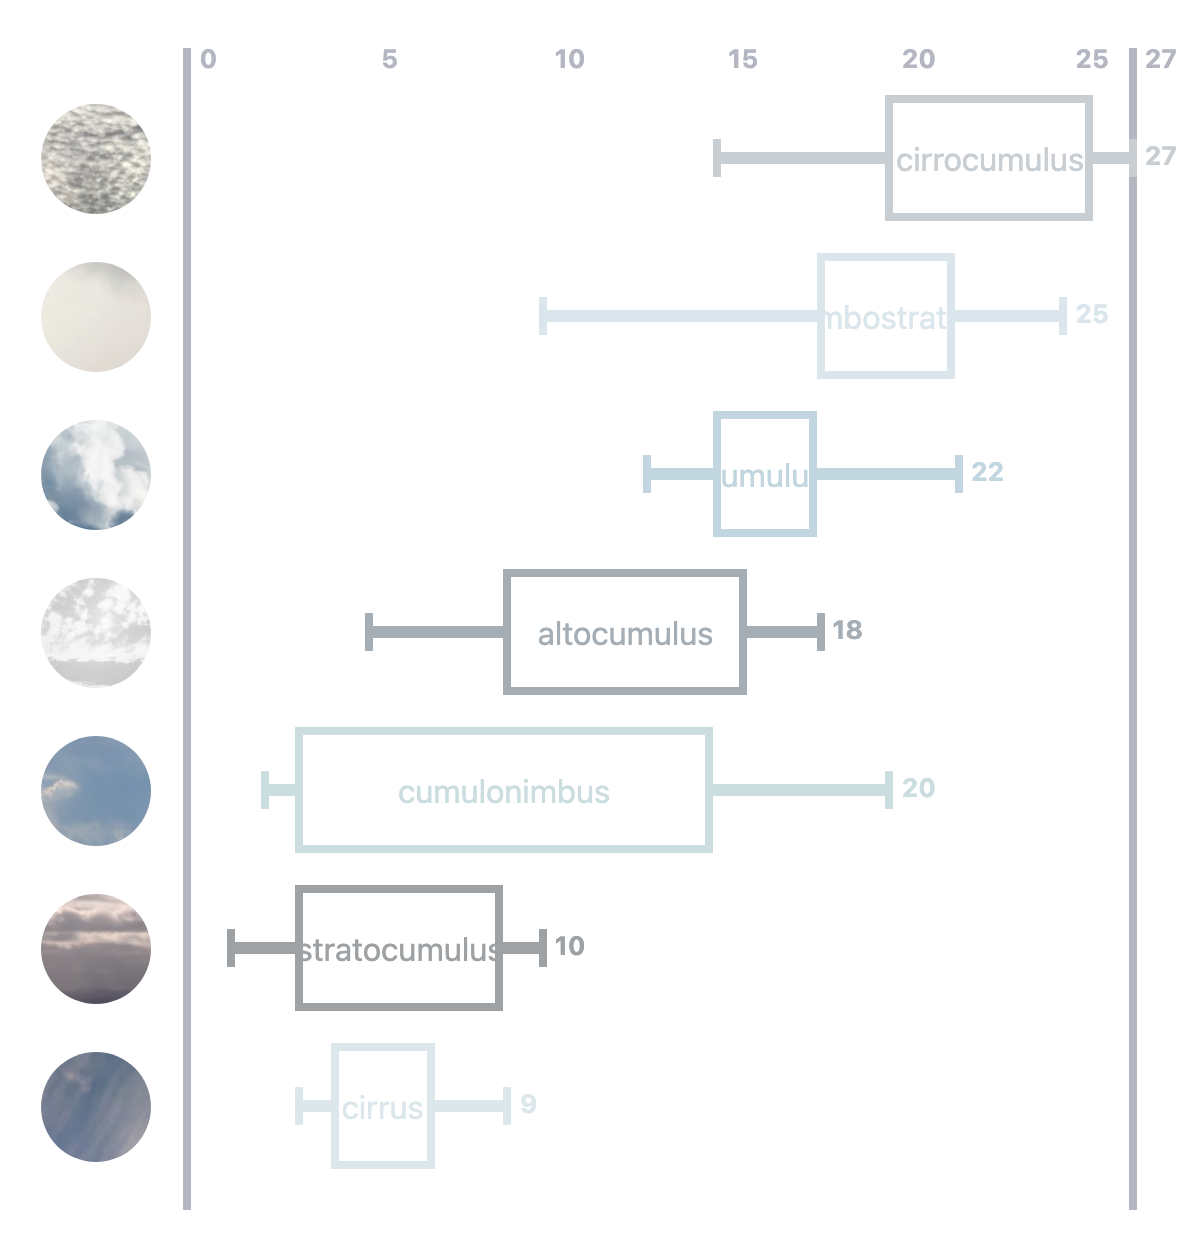
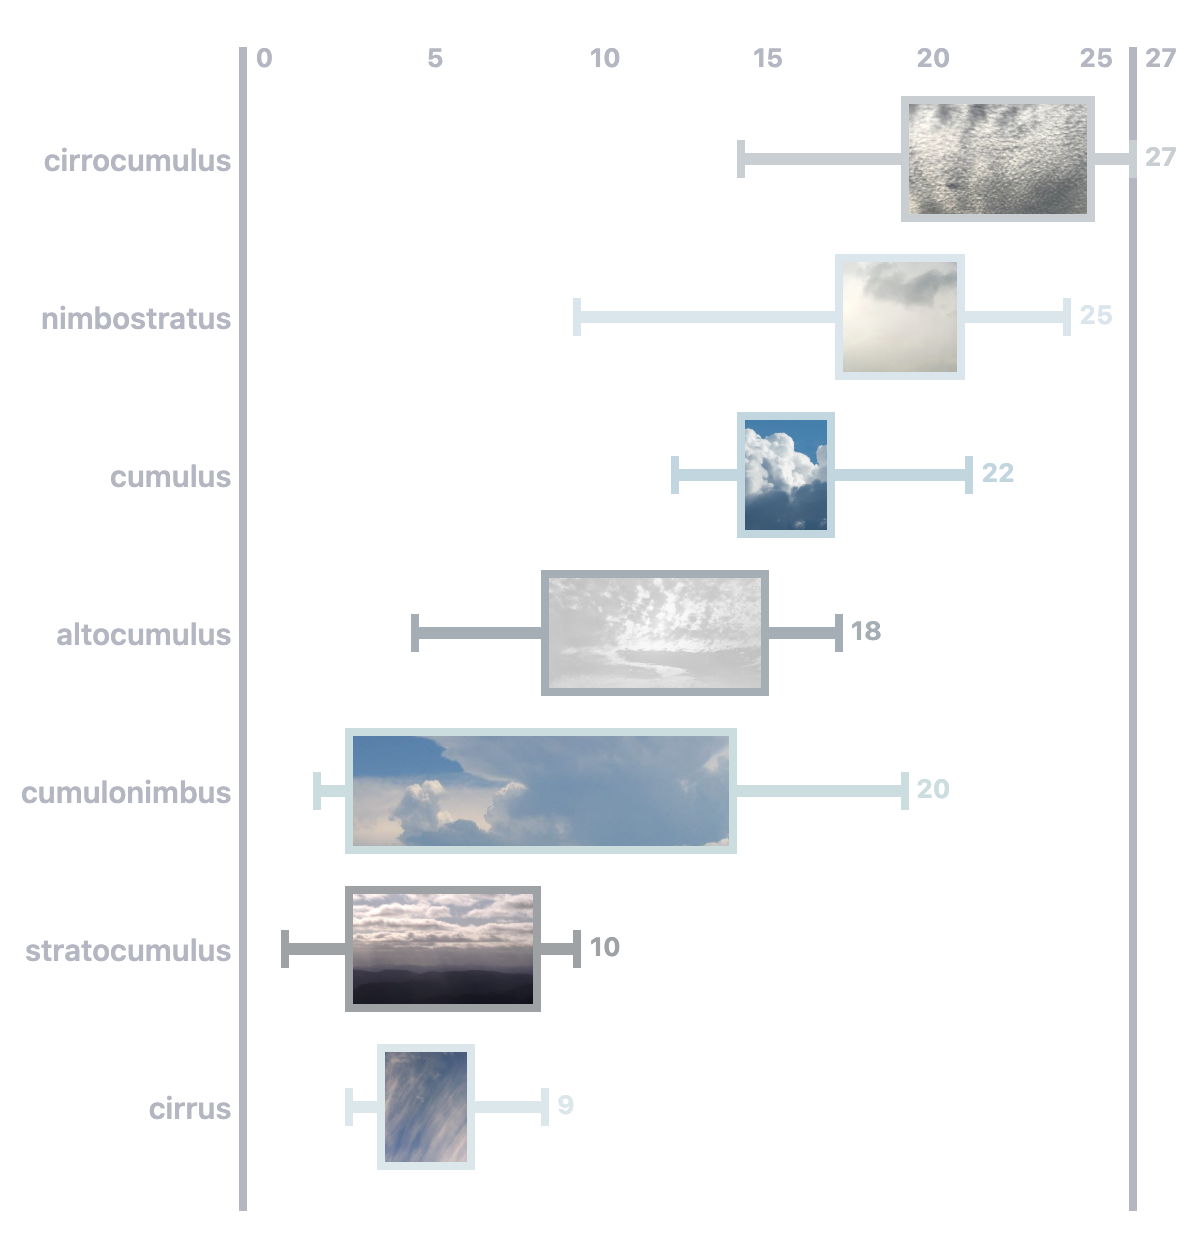
Make the static gallery posters interactive, fill the clouds' boxes with their photos, and stack the showcase in columns
The diverging bars, heatmap and strip plot read out what's under the pointer and fade the rest; the population pyramid
switches between 1990 and 2024 on one scale. The clouds' names become their labels, broken between Latin roots when
vertical. The showcase's plots stack in two columns, the same gap down as across.

diff --git a/src/gallery/examples/strip-plot/poster/chart.jsx b/src/gallery/examples/strip-plot/poster/chart.jsx
@@ -1,4 +1,4 @@
-import { createMemo } from "solid-js";
+import { createMemo, createSignal } from "solid-js";
 import { Plot, Chart, Dot, Tick, Label, slat } from "@bezda/rhp";
 import { Poster } from "@gallery/ui/Poster.jsx";
 import { normalsIn, sum } from "@gallery/random.js";
@@ -10,8 +10,12 @@ const CAPSULE = ["#7b8794", "#0e9f8a", "#6d4bd8"]; // the placebo gray, so the d
 const across = (i) => 0.16 + ((i * 0.618034) % 1) * 0.68; // a fixed place across the band per patient
 const tilt = (i) => Math.round((((i * 0.381966) % 1) - 0.5) * 140); // and a fixed tilt, in degrees
 
-// One patient: a two-tone capsule at their number of days.
-export const PatientSlat = slat({ css: styles.patient }, (s) => <Dot at={s.at} across={across(s.index)} color={s.color} class="pill" style={{ rotate: tilt(s.index) + "deg" }} />);
+// One patient: a two-tone capsule at their number of days. It carries its arm and its place in it, so the poster knows
+// which one is under the pointer; that one is ringed.
+export const PatientSlat = slat({ css: styles.patient }, (s) => (
+  <Dot at={s.at} across={across(s.index)} color={s.color} data-arm={s.arm} data-patient={s.index}
+    class={s.index === s.picked ? "pill picked" : "pill"} style={{ rotate: tilt(s.index) + "deg" }} />
+));
 
 export const ArmSlat = slat({
   thickness: { horizontal: 80 },
@@ -20,9 +24,9 @@ export const ArmSlat = slat({
 }, (d) => {
   const mean = createMemo(() => sum(d.days) / d.days.length);
   return (
-    <div>
+    <div class={d.pickedArm < 0 || d.pickedArm === d.index ? "" : "faded"}>
       <Label edge="start" class="arm">{d.arm}</Label>
-      <Plot overlap at={d.days} color={d.color}>{PatientSlat}</Plot>
+      <Plot overlap at={d.days} color={d.color} arm={d.index} picked={d.pickedArm === d.index ? d.pickedPatient : -1}>{PatientSlat}</Plot>
       <Tick at={mean()} thick={0.9} class="mean" />
       <Label edge="end" class="avg">{mean().toFixed(1)} days<small>average</small></Label>
     </div>
@@ -31,10 +35,20 @@ export const ArmSlat = slat({
 
 export default function Strip(p) {
   const days = createMemo(() => (p.seed(), TRIAL.map(([m, s]) => normalsIn(30, 1, 23, m, s))));
+  // The patient under the pointer, [arm, patient], read out in the dek; the other arms fade.
+  const [picked, setPicked] = createSignal(null);
+  const point = (e) => { const c = e.target.closest("[data-patient]"); setPicked(c ? [+c.dataset.arm, +c.dataset.patient] : null); };
+  const dek = () => {
+    const at = picked();
+    if (!at) return "Each capsule is one patient; the dark line is the group's average.";
+    const [arm, i] = at, mine = days()[arm][i], mean = sum(days()[arm]) / days()[arm].length;
+    return `${ARMS[arm]}: back in ${mine.toFixed(1)} days, ${Math.abs(mine - mean).toFixed(1)} ${mine < mean ? "sooner" : "later"} than its average.`;
+  };
   return (
-    <Poster look="clinic" kicker="Trial results · days to recover" title="Back on your feet sooner" dek="Each capsule is one patient; the dark line is the group's average." note="Illustrative data.">
+    <Poster look="clinic" kicker="Trial results · days to recover" title="Back on your feet sooner" dek={dek()} note="Illustrative data."
+      onPointerMove={point} onPointerDown={point} onPointerLeave={(e) => e.pointerType !== "touch" && setPicked(null)}>
       <Chart orientation={p.o()} scale={[0, 24]} ticks={[0, 8, 16, 24]} format={(v) => v + " d"} height={320} animate={p.js()} theme={styles.theme}>
-        <Plot arm={ARMS} days={days()} color={CAPSULE}>{ArmSlat}</Plot>
+        <Plot arm={ARMS} days={days()} color={CAPSULE} pickedArm={picked()?.[0] ?? -1} pickedPatient={picked()?.[1] ?? -1}>{ArmSlat}</Plot>
       </Chart>
     </Poster>
   );

diff --git a/src/gallery/examples/population-pyramid/poster/chart.jsx b/src/gallery/examples/population-pyramid/poster/chart.jsx
@@ -1,11 +1,12 @@
-import { createMemo } from "solid-js";
+import { createMemo, createSignal } from "solid-js";
 import { Plot, Chart, Bar, Label, slat } from "@bezda/rhp";
 import { Poster } from "@gallery/ui/Poster.jsx";
 import { rand } from "@gallery/random.js";
 import * as styles from "./styles.js";
 
 const AGES = ["0-9", "10-19", "20-29", "30-39", "40-49", "50-59", "60-69", "70-79", "80+"];
-const MEN = [3.6, 4.2, 4.9, 5.5, 6.7, 7.3, 6.8, 5.7, 4.1]; // % of the population in each band
+// % of the population in each band: a young country in 1990, an ageing one in 2024
+const MEN = { 1990: [7.0, 7.6, 7.7, 7.3, 6.4, 5.1, 4.0, 2.6, 1.1], 2024: [3.6, 4.2, 4.9, 5.5, 6.7, 7.3, 6.8, 5.7, 4.1] };
 const SPINE = 1.7; // scale units kept clear each side of 0, for the age labels
 
 // Men to the left of a spine of ages, women to the right: both Bars start SPINE away from 0 and run outward.
@@ -25,17 +26,29 @@ export const AgeSlat = slat({
 ));
 
 export default function Pyramid(p) {
-  const men = createMemo(() => (p.seed() ? MEN.map((v) => v * rand(0.88, 1.12)) : MEN));
-  const women = createMemo(() => men().map((v, i) => v * (0.97 + i * 0.045)));
-  const widest = createMemo(() => Math.max(9, Math.ceil(Math.max(...men(), ...women())))); // the scale fits the widest band
+  // Both years' men, then women; the button picks the year the bars show, and they move to it.
+  const [year, setYear] = createSignal(2024);
+  const shares = createMemo(() => {
+    const vary = p.seed() ? () => rand(0.88, 1.12) : () => 1;
+    return Object.fromEntries(Object.entries(MEN).map(([y, men]) => {
+      const m = men.map((v) => v * vary());
+      return [y, { men: m, women: m.map((v, i) => v * (0.97 + i * 0.045)) }];
+    }));
+  });
+  const men = () => shares()[year()].men, women = () => shares()[year()].women;
+  // one scale for both years, so the bands compare: it fits the widest band of either
+  const widest = createMemo(() => Math.max(9, Math.ceil(Math.max(...Object.values(shares()).flatMap((s) => [...s.men, ...s.women])))));
   const oldestFirst = AGES.map((_, i) => AGES.length - 1 - i); // position of each row: order is data
   return (
-    <Poster look="census" kicker="Census · share of the population" title="An ageing country"
-      dek={<span class="keys"><span><i style={{ background: "#1d6fa5" }} />Men</span><span><i style={{ background: "#d9694c" }} />Women</span><span>% in each age band</span></span>}
-      note="Illustrative figures.">
-      <Chart orientation={p.o()} scale={[-(widest() + SPINE), widest() + SPINE]} ticks={false} height={320} animate={p.js()} theme={styles.theme}>
-        <Plot age={AGES} men={men()} women={women()} order={p.o() === "horizontal" ? oldestFirst : undefined}>{AgeSlat}</Plot>
-      </Chart>
-    </Poster>
+    <>
+      <div class="buttons"><button class="mini" onClick={() => setYear(year() === 2024 ? 1990 : 2024)}>{year() === 2024 ? "Back to 1990" : "Forward to 2024"}</button></div>
+      <Poster look="census" kicker={`Census ${year()} · share of the population`} title={year() === 2024 ? "An ageing country" : "A young country"}
+        dek={<span class="keys"><span><i style={{ background: "#1d6fa5" }} />Men</span><span><i style={{ background: "#d9694c" }} />Women</span><span>% in each age band</span></span>}
+        note="Illustrative figures.">
+        <Chart orientation={p.o()} scale={[-(widest() + SPINE), widest() + SPINE]} ticks={false} height={320} animate={p.js()} theme={styles.theme}>
+          <Plot age={AGES} men={men()} women={women()} order={p.o() === "horizontal" ? oldestFirst : undefined}>{AgeSlat}</Plot>
+        </Chart>
+      </Poster>
+    </>
   );
 }

diff --git a/src/gallery/examples/diverging-bars/poster/chart.jsx b/src/gallery/examples/diverging-bars/poster/chart.jsx
@@ -1,10 +1,11 @@
-import { createMemo } from "solid-js";
+import { createMemo, createSignal } from "solid-js";
 import { Plot, Scale, Chart, Bar, Tick, Label, slat } from "@bezda/rhp";
 import { Poster } from "@gallery/ui/Poster.jsx";
 import { rand } from "@gallery/random.js";
 import * as styles from "./styles.js";
 
 const MONTHS = ["Jan", "Feb", "Mar", "Apr", "May", "Jun", "Jul", "Aug", "Sep", "Oct", "Nov", "Dec"];
+const NAMES = ["January", "February", "March", "April", "May", "June", "July", "August", "September", "October", "November", "December"];
 const degrees = (v) => (v > 0 ? "+" : v < 0 ? "−" : "") + Math.abs(v).toFixed(1) + "°";
 // °C from normal on a diverging ramp: blue below, a neutral gray at 0, red above.
 const HEAT = [[-2.5, [44, 123, 182]], [-1.2, [120, 177, 214]], [0, [140, 147, 160]], [1.2, [245, 128, 88]], [2.5, [200, 40, 50]]];
@@ -14,14 +15,15 @@ const heat = (t) => {
   return `rgb(${c0.map((c, i) => Math.round(c + (c1[i] - c) * f)).join(" ")})`;
 };
 
-// The month's band is tinted with its own color, like a warming stripe.
+// The month's band is tinted with its own color, like a warming stripe. Its root carries data-month, so the poster knows
+// which month is under the pointer; the others fade.
 export const MonthSlat = slat({
   thickness: { horizontal: 32 }, // the Chart's height is for its vertical form; horizontal rows keep their size
   inset: 0.22,
   room: { horizontal: { start: 40, end: 44 }, vertical: { start: 26, end: 12, after: 14 } },
   css: styles.month,
 }, (d) => (
-  <div class="month" style={{ "--heat": heat(d.anomaly) }}>
+  <div class={d.faded ? "month faded" : "month"} data-month={d.index} style={{ "--heat": heat(d.anomaly) }}>
     <Label edge="start" class="mon">{d.month}</Label>
     <Bar to={d.anomaly} color={heat(d.anomaly)} class="rise" />
     <Label at={d.anomaly} side={d.anomaly < 0 ? "before" : undefined} class="deg">{degrees(d.anomaly)}</Label>
@@ -41,11 +43,21 @@ export const NormalSlat = slat({
 
 export default function Diverging(p) {
   const anomaly = createMemo(() => (p.seed(), MONTHS.map(() => Math.round(rand(-1.4, 2.4) * 10) / 10)));
+  // The month under the pointer, read out in the dek.
+  const [month, setMonth] = createSignal(null);
+  const point = (e) => { const i = e.target.closest("[data-month]")?.dataset.month; setMonth(i == null ? null : +i); };
+  const dek = () => {
+    const i = month();
+    if (i == null) return "Each month against its 1991-2020 average, in °C.";
+    const v = anomaly()[i];
+    return v === 0 ? `${NAMES[i]} was right on normal.` : `${NAMES[i]} was ${Math.abs(v).toFixed(1)}° ${v > 0 ? "warmer" : "colder"} than normal.`;
+  };
   return (
-    <Poster look="climate" kicker="A year of monthly temperatures" title="Hotter than normal" dek="Each month against its 1991-2020 average, in °C." note="Illustrative figures.">
+    <Poster look="climate" kicker="A year of monthly temperatures" title="Hotter than normal" dek={dek()} note="Illustrative figures."
+      onPointerMove={point} onPointerDown={point} onPointerLeave={(e) => e.pointerType !== "touch" && setMonth(null)}>
       <Chart orientation={p.o()} scale={[-3, 3]} height={300} animate={p.js()} theme={styles.theme}>
         <Scale ticks={[-2, -1, 0, 1, 2]}>{NormalSlat}</Scale>
-        <Plot month={MONTHS} anomaly={anomaly()}>{MonthSlat}</Plot>
+        <Plot month={MONTHS} anomaly={anomaly()} faded={(d) => month() != null && d.index !== month()}>{MonthSlat}</Plot>
       </Chart>
     </Poster>
   );

diff --git a/src/gallery/examples/box-plot/poster/styles.js b/src/gallery/examples/box-plot/poster/styles.js
@@ -20,27 +20,22 @@ export const scale = `
 .num.crowded { visibility: hidden; }
 `;
 
-// A cloud: its photo in a circle, the whiskers and their caps, the box with the name inside, and the top value. Hover a row to zoom the photo.
+// A cloud: its name, the whiskers and their caps, the box filled with its photo, and the top value. Hover a row to zoom the photo out.
 export const box = `
-.photo { display: flex; align-items: center; justify-content: center; padding: 0; overflow: visible; }
-.photo:horizontal { top: 8px; bottom: 8px; translate: none; }
-.photo:vertical { height: var(--rhp-room-start); }
-.circle { flex: none; aspect-ratio: 1; border-radius: 50%; border: 4px solid var(--rhp-grid); overflow: hidden; }
-.photo:horizontal > .circle { height: 100%; }
-.photo:vertical > .circle { width: min(63px, 100% - 16px); }
-.circle > img { display: block; width: 100%; height: 100%; margin: 0; object-fit: cover; transform: scale(5); }
+.name { font-size: 15px; font-weight: 600; line-height: 1.2; color: var(--rhp-muted); }
+.name:vertical { font-size: 11px; white-space: normal; hyphens: manual; padding-inline: 4px; }
 .whisker, .box { --rhp-radius: 0px; }
 .cap { --rhp-tick-width: 4px; }
 .cap:horizontal { translate: 0 -50%; }
 .cap:vertical { translate: -50% 0; }
-.box { display: flex; align-items: center; justify-content: center; overflow: hidden; background: none;
-  border: 4px solid var(--rhp-color); color: var(--rhp-color); font-size: 16px; line-height: 24px; white-space: nowrap; }
-.box:vertical > span { writing-mode: vertical-rl; rotate: 180deg; }
+/* The box is the cloud's photo, cropped to the box, in its color's frame. */
+.box { overflow: hidden; background: none; border: 4px solid var(--rhp-color); }
+.box > img { display: block; width: 100%; height: 100%; margin: 0; object-fit: cover; transform: scale(1.6); transition: transform .3s; }
 .value { font-size: 13px; font-weight: 700; line-height: 19.5px; font-variant-numeric: normal; color: var(--rhp-color); --rhp-label-gap: 8px; }
 .value:horizontal { margin-top: -1px; } /* v1: 1px above the middle */
-.slat:hover .circle { border: 5px solid var(--rhp-muted); }
-.slat:hover .circle > img { transform: scale(1.5); }
-.slat:hover .box { border: 5px solid var(--rhp-muted); color: var(--rhp-muted); font-weight: 500; }
+.slat:hover .name { color: var(--rhp-ink); }
+.slat:hover .box { border: 5px solid var(--rhp-muted); }
+.slat:hover .box > img { transform: scale(1.1); }
 .slat:hover :is(.whisker, .cap) { background: var(--rhp-muted); }
 .slat:hover .cap { --rhp-tick-width: 6px; }
 .slat:hover .value { color: var(--rhp-ink); }

diff --git a/src/gallery/examples/heatmap/poster/chart.jsx b/src/gallery/examples/heatmap/poster/chart.jsx
@@ -1,15 +1,18 @@
-import { createMemo, Show } from "solid-js";
+import { createMemo, createSignal, Show } from "solid-js";
 import { Plot, Chart, Label, Cell, slat, useOrientation } from "@bezda/rhp";
 import { rand } from "@gallery/random.js";
 import * as styles from "./styles.js";
 
 const DAYS = ["Mon", "Tue", "Wed", "Thu", "Fri", "Sat", "Sun"];
 
+// An hour: its Cell carries its day and hour, so the chart knows which one is under the pointer. While one is, only
+// its day and its hour keep their color.
 const HourCell = (day) => (h) => {
   const o = useOrientation(); // the cells' own orientation: across the day's
+  const lit = () => day.pickedDay < 0 || day.pickedDay === day.index || day.pickedHour === h.index;
   return (
     <div>
-      <Cell value={h.v} title={`${day.day} ${h.index}:00, ${Math.round(h.v)}`} class="cell" />
+      <Cell value={h.v} data-day={day.index} data-hour={h.index} class={lit() ? "cell" : "cell faded"} />
       <Show when={day.index === 0 && h.index % 3 === 0}>
         <Label edge={o() === "vertical" ? "end" : "start"} class="hour">{h.index}</Label>
       </Show>
@@ -32,9 +35,21 @@ export const DayRow = slat({
 export default function Heatmap(p) {
   const hours = createMemo(() => (p.seed(), DAYS.map((_, day) => Array.from({ length: 24 }, (_, h) =>
     Math.max(0, 70 * Math.exp(-((h - 13 - (day > 4 ? 2 : 0)) ** 2) / 18) + rand(0, 30) - (day > 4 ? 15 : 0))))));
+  // The hour under the pointer, read out above the chart.
+  const [picked, setPicked] = createSignal(null);
+  const point = (e) => { const c = e.target.closest("[data-hour]"); setPicked(c ? [+c.dataset.day, +c.dataset.hour] : null); };
+  const readout = () => {
+    const at = picked();
+    if (!at) return "Point at an hour to read it.";
+    const [day, hour] = at;
+    return `${DAYS[day]} ${String(hour).padStart(2, "0")}:00 · ${Math.round(hours()[day][hour])} visitors`;
+  };
   return (
-    <Chart orientation={p.o()} scale={[0, 100]} ticks={false} height={320} animate={p.js()}>
-      <Plot day={DAYS} hours={hours()}>{DayRow}</Plot>
-    </Chart>
+    <div onPointerMove={point} onPointerDown={point} onPointerLeave={(e) => e.pointerType !== "touch" && setPicked(null)}>
+      <p class="heat-readout" aria-live="polite">{readout()}</p>
+      <Chart orientation={p.o()} scale={[0, 100]} ticks={false} height={320} animate={p.js()}>
+        <Plot day={DAYS} hours={hours()} pickedDay={picked()?.[0] ?? -1} pickedHour={picked()?.[1] ?? -1}>{DayRow}</Plot>
+      </Chart>
+    </div>
   );
 }

diff --git a/src/gallery/examples/box-plot/poster/chart.jsx b/src/gallery/examples/box-plot/poster/chart.jsx
@@ -15,6 +15,9 @@ import cirrocumulus from "./assets/cirrocumulus.jpg?url";
 // The marks start 16px above the first row, and the numbers sit over them, in the room this slat asks for.
 // A mark is "zero" (solid, just before 0), "end" (solid, at the max), or between them `marks`:
 // "line" (dashed, as long as the plot) or "tick" (13px long).
+// A cloud's name may break (with a hyphen) between its Latin roots, cumulo-nimbus, when its label is narrow.
+const syllables = (name) => name.replace(/^(cirro|alto|nimbo|strato|cumulo)(?=\w)/, "$1\u00ad");
+
 export const V1Scale = slat({
   room: { horizontal: { before: 40, after: 13 }, vertical: { before: 24, end: 30, after: 13 } },
   css: styles.scale,
@@ -41,16 +44,16 @@ const WHISKERS = [[1, 3, 9, 10], [2, 3, 15, 20], [5, 9, 16, 18], [3, 4, 7, 9], [
 export const BoxSlat = slat({
   thickness: { horizontal: 79 },
   inset: "8px",
-  room: { horizontal: { start: 96, end: 37 }, vertical: { start: 80, end: 30 } }, // for the photos and values
+  room: { horizontal: { start: 124, end: 37 }, vertical: { start: 44, end: 30 } }, // for the names and values
   css: styles.box,
 }, (d) => (
   <div class={d.dim ? "slat dim" : "slat"} style={{ "--rhp-color": d.color }}>
-    <Label edge="start" class="photo"><div class="circle"><img src={d.photo} alt={d.name} /></div></Label>
+    <Label edge="start" class="name">{syllables(d.name)}</Label>
     <Bar from={d.box[0]} to={d.box[1]} thick="6px" class="whisker" />
     <Bar from={d.box[2]} to={d.box[3]} thick="6px" class="whisker" />
     <Tick at={d.box[0]} thick="19px" class="cap" />
     <Tick at={d.box[3]} thick="19px" class="cap" />
-    <Bar from={d.box[1]} to={d.box[2]} class="box"><span>{d.name}</span></Bar>
+    <Bar from={d.box[1]} to={d.box[2]} class="box"><img src={d.photo} alt="" /></Bar>
     <Label at={d.box[3]} class="value">{Math.round(d.box[3])}</Label>
   </div>
 ));

diff --git a/src/gallery/examples/strip-plot/poster/styles.js b/src/gallery/examples/strip-plot/poster/styles.js
@@ -3,14 +3,15 @@
 // The chart's theme: its text and line colors, its surface and its font.
 export const theme = { font: "system-ui, sans-serif", ink: "#0f3d3a", muted: "#5f7f7b", grid: "#d4e9e4", surface: "#f3faf8" };
 
-// A patient: a two-tone capsule.
+// A patient: a two-tone capsule; the one pointed at, ringed in ink.
 export const patient = `
 .pill { width: 17px; height: 7px; border-radius: 99px;
     background: linear-gradient(90deg, var(--rhp-color) 50%, #fff 50%);
     box-shadow: 0 1px 2px rgb(15 61 58 / .25), inset 0 0 0 1px rgb(15 61 58 / .14); }
+.picked { z-index: 1; box-shadow: 0 0 0 2px var(--rhp-surface), 0 0 0 4px var(--rhp-ink); }
 `;
 
-// An arm of the trial: its name, the average's line and its number.
+// An arm of the trial: its name, the average's line and its number. While a patient in another arm is pointed at, it fades.
 export const arm = `
 .arm { font-size: 15px; font-weight: 700; }
 .arm:horizontal { --rhp-label-gap: 14px; }
@@ -18,4 +19,5 @@ export const arm = `
 .avg { font-size: 12px; font-weight: 700; color: var(--rhp-ink); }
 .avg small { display: block; font-size: 10.5px; font-weight: 500; color: var(--rhp-muted); }
 .avg:horizontal { --rhp-label-gap: 12px; }
+.faded { opacity: .3; }
 `;

diff --git a/src/gallery/examples/diverging-bars/poster/styles.js b/src/gallery/examples/diverging-bars/poster/styles.js
@@ -3,12 +3,13 @@
 // The chart's theme: its text and line colors, its surface and its font.
 export const theme = { font: "system-ui, sans-serif", ink: "#e8ecf2", muted: "#8b93a1", grid: "#262d39", surface: "#0d1117" };
 
-// A month: its band tinted with its own color, its name, its bar and its value.
+// A month: its band tinted with its own color, its name, its bar and its value. While another month is pointed at, it fades.
 export const month = `
 .month { background: color-mix(in srgb, var(--heat) 16%, transparent); }
 .mon { font-size: 12px; font-weight: 700; color: var(--rhp-muted); text-transform: uppercase; letter-spacing: .06em; }
 .rise { --rhp-radius: 3px; }
 .deg { font-size: 11px; font-weight: 700; font-variant-numeric: tabular-nums; }
+.faded { opacity: .3; }
 `;
 
 // The scale: a hairline each degree, the normal (0) brighter and named.

diff --git a/src/customizations/styles/gallery.css b/src/customizations/styles/gallery.css
@@ -110,6 +110,8 @@
 
 /* The v1 replicas' page boxes. v1's box plot sat on a white card; the animated dots sit in a window exactly
    11 dots wide, which zooms down to fit a narrow page. */
+/* The heatmap's readout: the hour under the pointer, above the chart. */
+.playground .heat-readout { margin: 0 0 10px; min-height: 1.5em; font-size: 14px; font-variant-numeric: tabular-nums; color: var(--sl-color-white); }
 .playground .buttons { display: flex; flex-wrap: wrap; align-items: center; gap: 6px; }
 .playground button.mini { font: inherit; font-size: 13px; padding: 4px 11px; margin-bottom: 8px; border-radius: var(--gallery-radius); cursor: pointer;
   border: 1px solid var(--sl-color-gray-5); background: transparent; color: var(--sl-color-text); }

diff --git a/src/gallery/Showcase.jsx b/src/gallery/Showcase.jsx
@@ -48,8 +48,13 @@ export default function Showcase(props) {
         <p class="showcase-kicker">Live from the gallery</p>
         <button type="button" class="showcase-shuffle" onClick={() => setShown(pick(props.entries, props.count ?? 4))}>Show others</button>
       </div>
+      {/* two columns, each a stack: a short plot leaves no hole under it, the next one follows */}
       <div class="showcase-grid">
-        <For each={shown()}>{(e) => <Poster entry={e} />}</For>
+        <For each={[0, 1]}>{(col) => (
+          <div class="showcase-column">
+            <For each={shown().filter((_, i) => i % 2 === col)}>{(e) => <Poster entry={e} />}</For>
+          </div>
+        )}</For>
       </div>
     </>
   );

diff --git a/src/gallery/examples/heatmap/poster/styles.js b/src/gallery/examples/heatmap/poster/styles.js
@@ -1,8 +1,10 @@
 // The heatmap: plain, in the page's colors. Each CSS string is one slat's look; edit one and its slats restyle as you type.
 
 // A day: its cells, with a gap of 1px around each and slightly rounded corners, and the hour numbers, small and muted.
+// While an hour is pointed at, the cells outside its day and its hour fade.
 export const dayRow = `
 .cell { --rhp-cell-gap: 1px; --rhp-radius: 2px; }
 .hour { --rhp-label-size: 10px; color: var(--rhp-muted); }
 .hour:horizontal { width: auto; }
+.faded { opacity: .25; }
 `;
